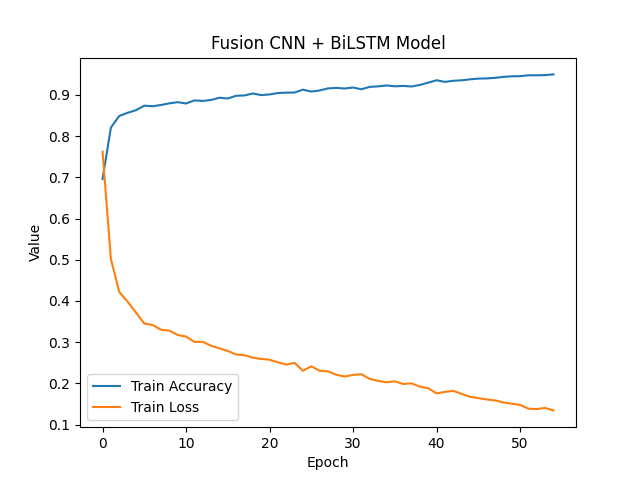
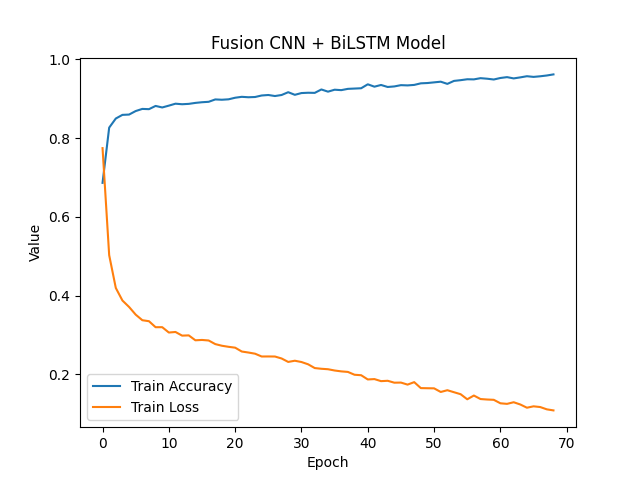
update phober model

diff --git a/phobert/sentimentModel.py b/phobert/sentimentModel.py
@@ -73,21 +73,21 @@ def startLearning():
     #     np.array(test_labels)
     # )
 
-    # print('TRAINING USING ENSEMBLE CNN + BiLSTM MODEL.................')
-    # fusion_cnn_bilstm = Fusion_CNN_BILSTM(
-    #     title_train_ids,
-    #     text_train_ids,
-    #     train_labels,
-    #     title_val_ids,
-    #     text_val_ids,
-    #     val_labels,
-    # )
-    #
-    # fusion_cnn_bilstm.trainModel()
-    # fusion_cnn_bilstm.testModel(
-    #     [np.array(title_test_ids), np.array(text_test_ids)], 
-    #     np.array(test_labels)
-    # )
+    print('TRAINING USING FUSION CNN + BiLSTM MODEL.................')
+    fusion_cnn_bilstm = Fusion_CNN_BILSTM(
+        title_train_ids,
+        text_train_ids,
+        train_labels,
+        title_val_ids,
+        text_val_ids,
+        val_labels,
+    )
+
+    fusion_cnn_bilstm.trainModel()
+    fusion_cnn_bilstm.testModel(
+        [np.array(title_test_ids), np.array(text_test_ids)], 
+        np.array(test_labels)
+    )
 
   # print('TRAINING USING LSTM MODEL.........................')
   # lstm = LSTM(
@@ -104,7 +104,6 @@ def startLearning():
   #   [np.array(title_test_ids), np.array(text_test_ids)], 
   #   np.array(test_labels)
   # )
-  # print('TRAINING DONE.............................')
 
     # print('TRAINING USING TRANSFORMER MODEL.................')
     # transformer_model = Transformer(
@@ -234,18 +233,18 @@ def startLearning():
     #     np.array(test_labels)
     # )
 
-    print('TRAINING USING FUSION CNN + BIGRU MODEL.................')
-    fusion_cnn_bigru_model = Fusion_CNN_BIGRU(
-        title_train_ids,
-        text_train_ids,
-        train_labels,
-        title_val_ids,
-        text_val_ids,
-        val_labels,
-    )
-
-    fusion_cnn_bigru_model.trainModel()
-    fusion_cnn_bigru_model.testModel(
-        [np.array(title_test_ids), np.array(text_test_ids)], 
-        np.array(test_labels)
-    )
+    # print('TRAINING USING FUSION CNN + BIGRU MODEL.................')
+    # fusion_cnn_bigru_model = Fusion_CNN_BIGRU(
+    #     title_train_ids,
+    #     text_train_ids,
+    #     train_labels,
+    #     title_val_ids,
+    #     text_val_ids,
+    #     val_labels,
+    # )
+    #
+    # fusion_cnn_bigru_model.trainModel()
+    # fusion_cnn_bigru_model.testModel(
+    #     [np.array(title_test_ids), np.array(text_test_ids)], 
+    #     np.array(test_labels)
+    # )

diff --git a/phobert/models/Fusion_CNN_BILSTM.py b/phobert/models/Fusion_CNN_BILSTM.py
@@ -70,7 +70,7 @@ class Fusion_CNN_BILSTM:
         text_flat = Flatten()(text_concat)
         text_drop = Dropout(DROP)(text_flat)
 
-        average = Concatenate(axis=-1)([title_drop, text_drop])
+        average = Average()([title_drop, text_drop])
 
         dense1 = Dense(128, activation='relu')(average)
         dense1 = Dense(64, activation='relu')(dense1)
